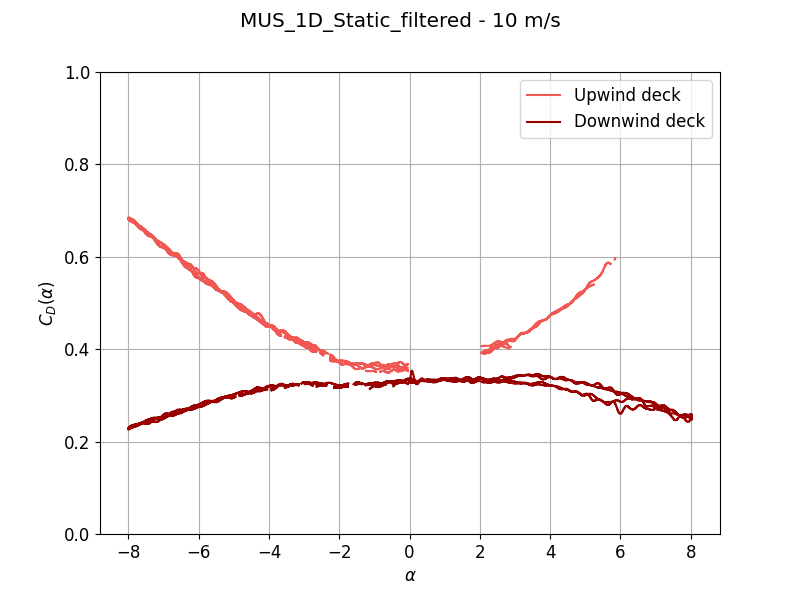
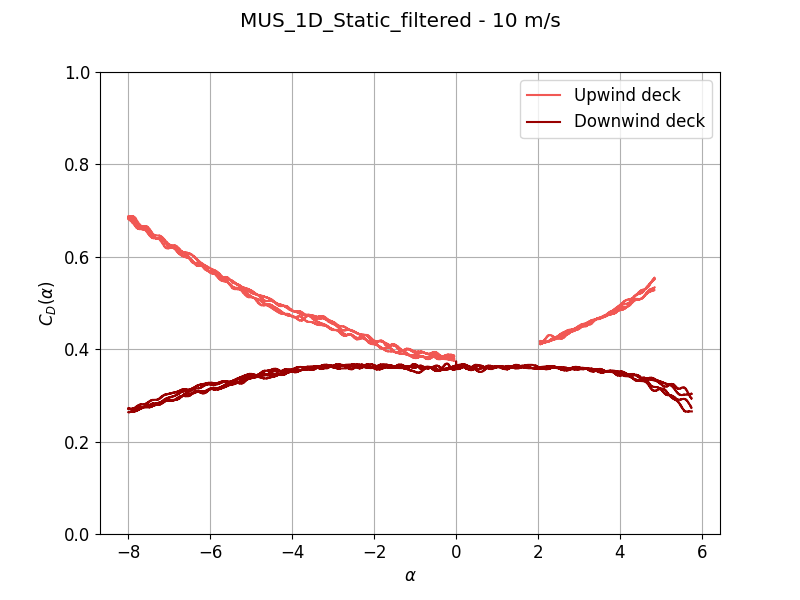
debugge

diff --git a/HAR_INT/static_coeff.py b/HAR_INT/static_coeff.py
@@ -409,46 +409,12 @@ plt.savefig( os.path.join(r"C:\Users\liner\Documents\Github\Masteroppgave\HAR_IN
 
 
 
-#numpy array
-file_path = ".\\Arrays_Static_coeff\\"
-
-#Dictionary of arrays to save
-arrays_to_save={
-    "cd_single_high": static_coeff_single_9_filtered.plot_drag_mean( mode="single", upwind_in_rig=True)[0],
-    "cd_alpha_single_high": static_coeff_single_9_filtered.plot_drag_mean( mode="single", upwind_in_rig=True)[1],
-    "cl_single_high": static_coeff_single_9.plot_lift_mean( mode="single", upwind_in_rig=True)[0],
-    "cl_alpha_single_high": static_coeff_single_9.plot_lift_mean( mode="single", upwind_in_rig=True)[1],
-    "cm_single_high": static_coeff_single_9.plot_pitch_mean( mode="single", upwind_in_rig=True)[0],
-    "cm_alpha_single_high": static_coeff_single_9.plot_pitch_mean( mode="single", upwind_in_rig=True)[1],
-
-    "cd_1D_mds_high_upwind_deck": static_coeff_MDS_1D_10.plot_drag_mean( mode="decks", upwind_in_rig=False)[0],
-    "cd_1D_mds_high_downwind_deck": static_coeff_MDS_1D_10.plot_drag_mean( mode="decks", upwind_in_rig=False)[1],
-    "cd_alpha_1D_mds_high": static_coeff_MDS_1D_10.plot_drag_mean( mode="decks", upwind_in_rig=False)[2],
-    "cl_1D_mds_high_upwind_deck": static_coeff_MDS_1D_10.plot_lift_mean( mode="decks", upwind_in_rig=False)[0],
-    "cl_1D_mds_high_downwind_deck": static_coeff_MDS_1D_10.plot_lift_mean( mode="decks", upwind_in_rig=False)[1],
-    "cl_alpha_1D_mds_high": static_coeff_MDS_1D_10.plot_lift_mean( mode="decks", upwind_in_rig=False)[2],
-    "cm_1D_mds_high_upwind_deck": static_coeff_MDS_1D_10.plot_pitch_mean( mode="decks", upwind_in_rig=False)[0],
-    "cm_1D_mds_high_downwind_deck": static_coeff_MDS_1D_10.plot_pitch_mean( mode="decks", upwind_in_rig=False)[1],
-    "cm_alpha_1D_mds_high": static_coeff_MDS_1D_10.plot_pitch_mean( mode="decks", upwind_in_rig=False)[2],
-
-    "cd_1D_mus_high_upwind_deck": static_coeff_MUS_1D_10_filtered.plot_drag_mean( mode="decks", upwind_in_rig=True)[0],
-    "cd_1D_mus_high_downwind_deck": static_coeff_MUS_1D_10_filtered.plot_drag_mean( mode="decks", upwind_in_rig=True)[1],
-    "cd_alpha_1D_mus_high": static_coeff_MUS_1D_10_filtered.plot_drag_mean( mode="decks", upwind_in_rig=True)[2],
-    "cl_1D_mus_high_upwind_deck": static_coeff_MUS_1D_10.plot_lift_mean( mode="decks", upwind_in_rig=True)[0],
-    "cl_1D_mus_high_downwind_deck": static_coeff_MUS_1D_10.plot_lift_mean( mode="decks", upwind_in_rig=True)[1],
-    "cl_alpha_1D_mus_high": static_coeff_MUS_1D_10.plot_lift_mean( mode="decks", upwind_in_rig=True)[2],
-    "cm_1D_mus_high_upwind_deck": static_coeff_MUS_1D_10.plot_pitch_mean( mode="decks", upwind_in_rig=True)[0],
-    "cm_1D_mus_high_downwind_deck": static_coeff_MUS_1D_10.plot_pitch_mean( mode="decks", upwind_in_rig=True)[1],
-    "cm_alpha_1D_mus_high": static_coeff_MUS_1D_10.plot_pitch_mean( mode="decks", upwind_in_rig=True)[2],
-
-
-}
 
 
 #%%  Filter and plot ALT 2
 section_name = "MDS_1D_Static_filtered"
 
-static_coeff_MUS_1D_5_filtered, static_coeff_MUS_1D_10_filtered = w3t._scoff.filter_by_reference(static_coeff_1=static_coeff_MUS_1D_5, static_coeff_2=static_coeff_MUS_1D_10, threshold=0.038, threshold_low=[0.06,0.03,0.02],threshold_high=[0.03,0.06,0.008],single=False)
+static_coeff_MUS_1D_5_filtered, static_coeff_MUS_1D_10_filtered = w3t._scoff.filter_by_reference(static_coeff_1=static_coeff_MUS_1D_5, static_coeff_2=static_coeff_MUS_1D_10, threshold=0.08, threshold_low=[0.03,0.03,0.02],threshold_high=[0.04,0.02,0.001],single=False)
 
 
 plot_static_coeff_summary(static_coeff_MUS_1D_5_filtered, section_name, 5, mode="decks", upwind_in_rig=True)
@@ -1210,6 +1176,58 @@ plt.suptitle(f"MDS_2D_Static, 10 m/s",  y=0.95)
 plt.savefig( os.path.join(r"C:\Users\liner\Documents\Github\Masteroppgave\HAR_INT\Plots\static\without_vibration\pitch", "MDS_2D_10_pitch_clean.png"))
 
 
+#numpy array
+file_path = ".\\Arrays_Static_coeff\\"
+
+#Dictionary of arrays to save
+arrays_to_save={
+    "cd_single_high": static_coeff_single_9_filtered.plot_drag_mean( mode="single", upwind_in_rig=True)[0],
+    "cd_alpha_single_high": static_coeff_single_9_filtered.plot_drag_mean( mode="single", upwind_in_rig=True)[1],
+    "cl_single_high": static_coeff_single_9.plot_lift_mean( mode="single", upwind_in_rig=True)[0],
+    "cl_alpha_single_high": static_coeff_single_9.plot_lift_mean( mode="single", upwind_in_rig=True)[1],
+    "cm_single_high": static_coeff_single_9.plot_pitch_mean( mode="single", upwind_in_rig=True)[0],
+    "cm_alpha_single_high": static_coeff_single_9.plot_pitch_mean( mode="single", upwind_in_rig=True)[1],
+
+    "cd_1D_mds_high_upwind_deck": static_coeff_MDS_1D_10.plot_drag_mean( mode="decks", upwind_in_rig=False)[0],
+    "cd_1D_mds_high_downwind_deck": static_coeff_MDS_1D_10.plot_drag_mean( mode="decks", upwind_in_rig=False)[1],
+    "cd_alpha_1D_mds_high": static_coeff_MDS_1D_10.plot_drag_mean( mode="decks", upwind_in_rig=False)[2],
+    "cl_1D_mds_high_upwind_deck": static_coeff_MDS_1D_10.plot_lift_mean( mode="decks", upwind_in_rig=False)[0],
+    "cl_1D_mds_high_downwind_deck": static_coeff_MDS_1D_10.plot_lift_mean( mode="decks", upwind_in_rig=False)[1],
+    "cl_alpha_1D_mds_high": static_coeff_MDS_1D_10.plot_lift_mean( mode="decks", upwind_in_rig=False)[2],
+    "cm_1D_mds_high_upwind_deck": static_coeff_MDS_1D_10.plot_pitch_mean( mode="decks", upwind_in_rig=False)[0],
+    "cm_1D_mds_high_downwind_deck": static_coeff_MDS_1D_10.plot_pitch_mean( mode="decks", upwind_in_rig=False)[1],
+    "cm_alpha_1D_mds_high": static_coeff_MDS_1D_10.plot_pitch_mean( mode="decks", upwind_in_rig=False)[2],
+
+    "cd_1D_mus_high_upwind_deck": static_coeff_MUS_1D_10_filtered.plot_drag_mean( mode="decks", upwind_in_rig=True)[0],
+    "cd_1D_mus_high_downwind_deck": static_coeff_MUS_1D_10_filtered.plot_drag_mean( mode="decks", upwind_in_rig=True)[1],
+    "cd_alpha_1D_mus_high": static_coeff_MUS_1D_10_filtered.plot_drag_mean( mode="decks", upwind_in_rig=True)[2],
+    "cl_1D_mus_high_upwind_deck": static_coeff_MUS_1D_10.plot_lift_mean( mode="decks", upwind_in_rig=True)[0],
+    "cl_1D_mus_high_downwind_deck": static_coeff_MUS_1D_10.plot_lift_mean( mode="decks", upwind_in_rig=True)[1],
+    "cl_alpha_1D_mus_high": static_coeff_MUS_1D_10.plot_lift_mean( mode="decks", upwind_in_rig=True)[2],
+    "cm_1D_mus_high_upwind_deck": static_coeff_MUS_1D_10.plot_pitch_mean( mode="decks", upwind_in_rig=True)[0],
+    "cm_1D_mus_high_downwind_deck": static_coeff_MUS_1D_10.plot_pitch_mean( mode="decks", upwind_in_rig=True)[1],
+    "cm_alpha_1D_mus_high": static_coeff_MUS_1D_10.plot_pitch_mean( mode="decks", upwind_in_rig=True)[2],
+
+    "cd_2D_mds_high_upwind_deck": static_coeff_MDS_2D_10.plot_drag_mean( mode="decks", upwind_in_rig=False)[0],
+    "cd_2D_mds_high_downwind_deck": static_coeff_MDS_2D_10.plot_drag_mean( mode="decks", upwind_in_rig=False)[1],
+    "cd_alpha_2D_mds_high": static_coeff_MDS_2D_10.plot_drag_mean( mode="decks", upwind_in_rig=False)[2],
+    "cl_2D_mds_high_upwind_deck": static_coeff_MDS_2D_10.plot_lift_mean( mode="decks", upwind_in_rig=False)[0],
+    "cl_2D_mds_high_downwind_deck": static_coeff_MDS_2D_10.plot_lift_mean( mode="decks", upwind_in_rig=False)[1],
+    "cl_alpha_2D_mds_high": static_coeff_MDS_2D_10.plot_lift_mean( mode="decks", upwind_in_rig=False)[2],
+    "cm_2D_mds_high_upwind_deck": static_coeff_MDS_2D_10.plot_pitch_mean( mode="decks", upwind_in_rig=False)[0],
+    "cm_2D_mds_high_downwind_deck": static_coeff_MDS_2D_10.plot_pitch_mean( mode="decks", upwind_in_rig=False)[1],
+    "cm_alpha_2D_mds_high": static_coeff_MDS_2D_10.plot_pitch_mean( mode="decks", upwind_in_rig=False)[2],
+
+    "cd_2D_mus_high_upwind_deck": static_coeff_MUS_2D_10_filtered.plot_drag_mean( mode="decks", upwind_in_rig=True)[0],
+    "cd_2D_mus_high_downwind_deck": static_coeff_MUS_2D_10_filtered.plot_drag_mean( mode="decks", upwind_in_rig=True)[1],
+    "cd_alpha_2D_mus_high": static_coeff_MUS_2D_10_filtered.plot_drag_mean( mode="decks", upwind_in_rig=True)[2],
+    "cl_2D_mus_high_upwind_deck": static_coeff_MUS_2D_10.plot_lift_mean( mode="decks", upwind_in_rig=True)[0],
+    "cl_2D_mus_high_downwind_deck": static_coeff_MUS_2D_10.plot_lift_mean( mode="decks", upwind_in_rig=True)[1],
+    "cl_alpha_2D_mus_high": static_coeff_MUS_2D_10.plot_lift_mean( mode="decks", upwind_in_rig=True)[2],
+    "cm_2D_mus_high_upwind_deck": static_coeff_MUS_2D_10.plot_pitch_mean( mode="decks", upwind_in_rig=True)[0],
+    "cm_2D_mus_high_downwind_deck": static_coeff_MUS_2D_10.plot_pitch_mean( mode="decks", upwind_in_rig=True)[1],
+    "cm_alpha_2D_mus_high": static_coeff_MUS_2D_10.plot_pitch_mean( mode="decks", upwind_in_rig=True)[2],
+}
 
 #%%  Filter and plot ALT 2
 section_name = "MUS_2D_Static_filtered"

diff --git a/w3tp/w3t/_scoff.py b/w3tp/w3t/_scoff.py
@@ -1506,6 +1506,8 @@ def filter(static_coeff, threshold=0.3, scoff="", single=True):
         for val in unique_alphas:
             idx = np.where(alpha == val)[0]
             spread = np.max(coeff_up[idx]) - np.min(coeff_up[idx])
+            print(f"Alpha = {val}, Spread = {spread:.3f}")
+
             if spread > threshold:
                 coeff_up_plot[idx] = np.nan
         return alpha, coeff_up_plot
